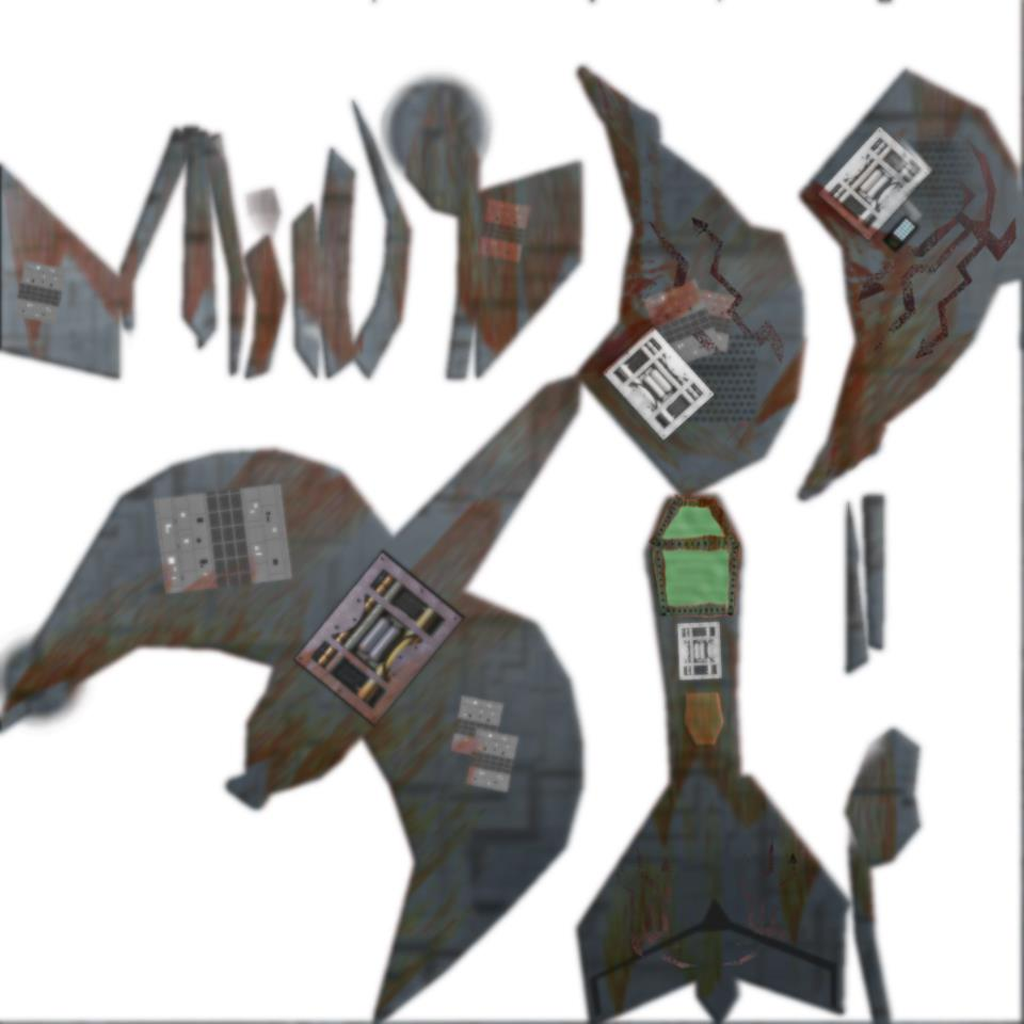
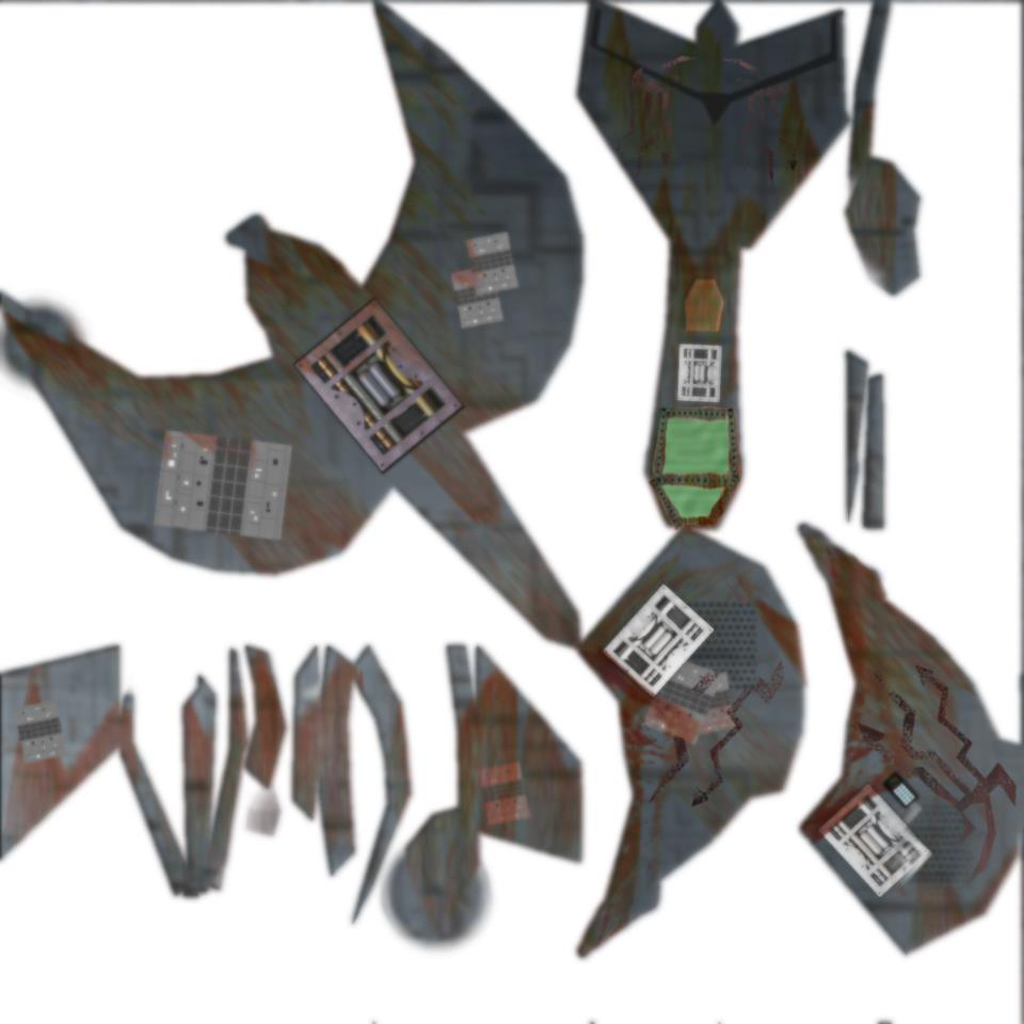
textur fixed (was horizontal mirrored for some reason)

diff --git a/general/src/net/kibotu/dragnslay/general/assets/Assets.java b/general/src/net/kibotu/dragnslay/general/assets/Assets.java
@@ -3,6 +3,7 @@ package net.kibotu.dragnslay.general.assets;
 
 import com.badlogic.gdx.Gdx;
 import com.badlogic.gdx.assets.AssetManager;
+import com.badlogic.gdx.assets.loaders.TextureLoader;
 import com.badlogic.gdx.assets.loaders.resolvers.InternalFileHandleResolver;
 import com.badlogic.gdx.graphics.Texture;
 import com.badlogic.gdx.graphics.g3d.model.still.StillModel;
@@ -20,11 +21,16 @@ public enum Assets {
     private static final String TAG = Assets.class.getSimpleName();
     public static AssetManager manager;
     private static Assets instance;
+    private static TextureLoader.TextureParameter mipMapFilter;
 
     static {
         manager = new AssetManager();
         manager.setLoader( StillModel.class, new StillModelAssetLoader( new InternalFileHandleResolver() ) );
         manager.setLoader( ShaderProgram.class, new ShaderAssetLoader( new InternalFileHandleResolver() ) );
+        mipMapFilter = new TextureLoader.TextureParameter();
+        mipMapFilter.minFilter = Texture.TextureFilter.MipMapLinearNearest;
+        mipMapFilter.minFilter = Texture.TextureFilter.Nearest;
+        mipMapFilter.genMipMaps = true;
     }
 
     public static void loadModels () {
@@ -42,7 +48,7 @@ public enum Assets {
 
     public static void loadSprites () {
         Logger.v( TAG, "load sprites assets" );
-        manager.load( TEXTURE_RAZOR, Texture.class );
+        manager.load( TEXTURE_RAZOR, Texture.class, mipMapFilter );
     }
 
     /**
@@ -55,7 +61,7 @@ public enum Assets {
         loadSprites();
     }
 
-    public static void resume() {
+    public static void resume () {
         loadGameAssets();
         manager.load( SHADER_LIBGDX_DEFAULT, ShaderProgram.class );
         manager.finishLoading();

diff --git a/general/src/net/kibotu/dragnslay/general/screens/GameScreen.java b/general/src/net/kibotu/dragnslay/general/screens/GameScreen.java
@@ -39,7 +39,7 @@ public class GameScreen implements Screen {
 
         razorM = Assets.manager.get( Constants.MODEL_RAZOR, StillModel.class );
         Texture razorT = Assets.manager.get( Constants.TEXTURE_RAZOR, Texture.class );
-        razorT.setFilter( Texture.TextureFilter.Linear, Texture.TextureFilter.Linear );
+        razorT.setFilter( Texture.TextureFilter.MipMapLinearNearest, Texture.TextureFilter.Nearest );
         Material mat = new Material( "razor", new TextureAttribute( razorT, 0, "u_texture01" ) );
         razorM.setMaterial( mat );
     }
@@ -69,7 +69,7 @@ public class GameScreen implements Screen {
         // light
         light.apply( phong );
 
-        phong.setUniformMatrix( MODEL_VIEW, modelviewmatrx);
+        phong.setUniformMatrix( MODEL_VIEW, modelviewmatrx );
         // scene
         razorM.render( phong );
 

diff --git a/general/src/net/kibotu/dragnslay/general/DragnSlay.java b/general/src/net/kibotu/dragnslay/general/DragnSlay.java
@@ -53,7 +53,7 @@ public class DragnSlay extends Game {
 
         // orthographic camera for sprite batch
         orthographicCamera = new GLESOrthographicCamera();
-        orthographicCamera.setBackground( Color.DARK_GRAY );
+//        orthographicCamera.setBackground( Color.DARK_GRAY );
 
         // camera
         perspectiveCamera = new GLESPerspectiveCamera( 67, Gdx.graphics.getWidth(), Gdx.graphics.getHeight() );
@@ -61,7 +61,7 @@ public class DragnSlay extends Game {
         perspectiveCamera.direction.set( 0, 0, - 1 );
         perspectiveCamera.near = 0.5f;
         perspectiveCamera.far = 1000f;
-        perspectiveCamera.setBackground( Color.DARK_GRAY );
+//        perspectiveCamera.setBackground( Color.DARK_GRAY );
     }
 
     @Override

diff --git a/general/src/net/kibotu/dragnslay/general/graphics/PhongMaterial.java b/general/src/net/kibotu/dragnslay/general/graphics/PhongMaterial.java
@@ -34,9 +34,9 @@ public class PhongMaterial extends Material {
     public static PhongMaterial createDefaultMaterial() {
         if ( defaultMaterial != null ) return defaultMaterial;
         defaultMaterial = new PhongMaterial( "white" );
-        defaultMaterial.Ambient = new Color( 0.4f, 0.4f, 0.4f, 1f );
+        defaultMaterial.Ambient = new Color( 0.1f, 0.1f, 0.1f, 1f );
         defaultMaterial.Diffuse = new Color( 0.5f, 0.5f, 0.5f, 1f );
-        defaultMaterial.Specular = new Color( 0.5f, 0.5f, 0.5f, 1f );
+        defaultMaterial.Specular = new Color( 0.3f, 0.3f, 0.3f, 1f );
         defaultMaterial.Emissive = new Color( 0f, 0f, 0f, 1f );
         defaultMaterial.shininess = 80;
         return defaultMaterial;
